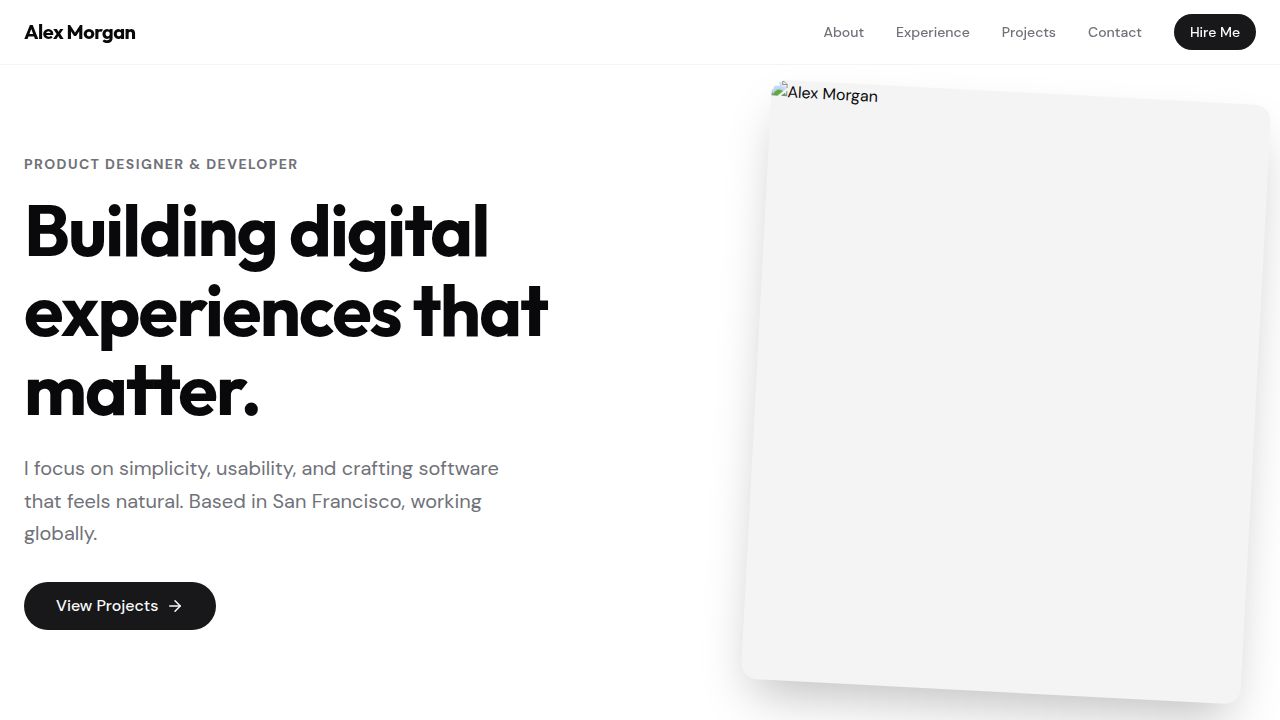
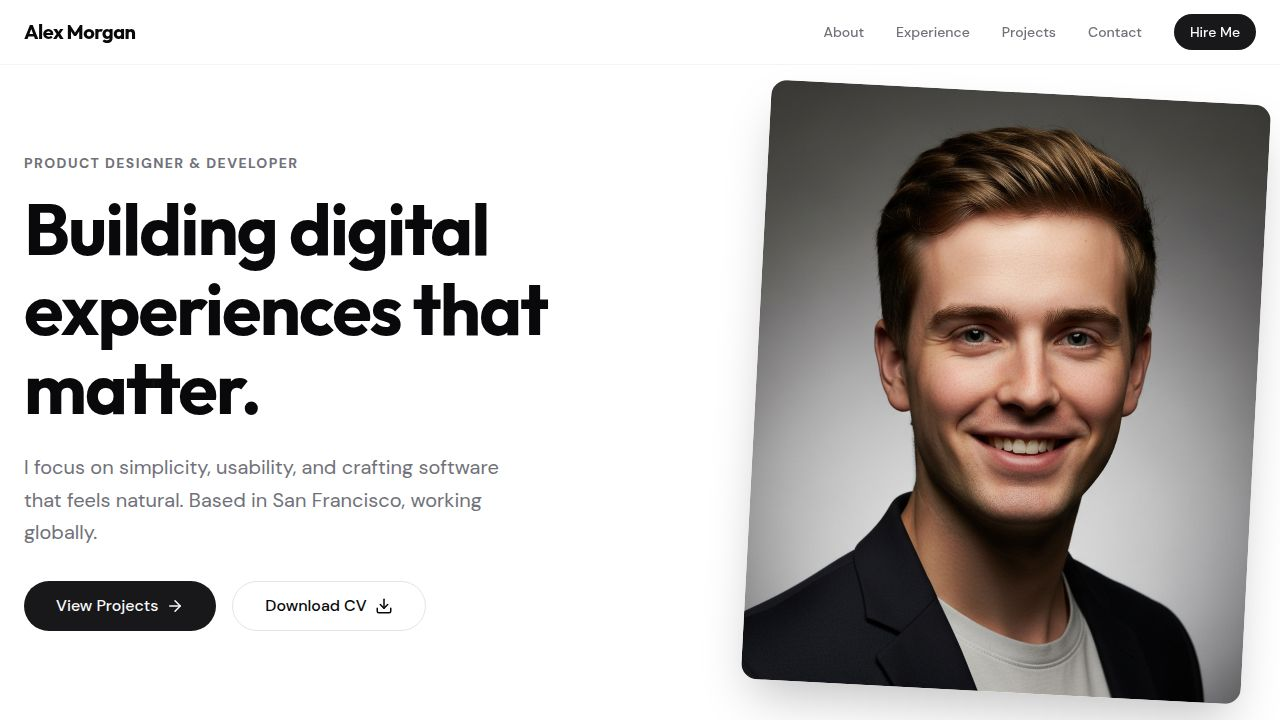
Consolidate site content and integrate dynamic data fetching
Update configuration to use a single data JSON file for site content, and refactor components to fetch this data dynamically using a new ContentProvider hook, replacing static imports.

Replit-Commit-Author: Agent
Replit-Commit-Session-Id: 2330eee7-d9eb-4136-a2d1-48d7d8accdbf
Replit-Commit-Checkpoint-Type: full_checkpoint
Replit-Commit-Event-Id: a3fcdbab-2cd2-4ba7-b0aa-76a99faa1c19
Replit-Commit-Screenshot-Url: https://storage.googleapis.com/screenshot-production-us-central1/29c4b8df-4326-462a-a762-90c2c4a7f456/2330eee7-d9eb-4136-a2d1-48d7d8accdbf/PbdmDis
Replit-Helium-Checkpoint-Created: true

diff --git a/client/src/data/content.tsx b/client/src/data/content.tsx
@@ -1,3 +1,8 @@
+import avatarImage from "@assets/generated_images/alex_morgan_professional_headshot.png";
+import fintechImage from "@assets/generated_images/fintech_dashboard_interface.png";
+import ecommerceImage from "@assets/generated_images/fashion_mobile_app_interface.png";
+import archImage from "@assets/generated_images/architecture_portfolio_website.png";
+import healthImage from "@assets/generated_images/wellness_tracker_app_interface.png";
 import { ContentData } from "@/types/content";
 
 export const content: ContentData = {
@@ -6,7 +11,7 @@ export const content: ContentData = {
     role: "Product Designer & Developer",
     headline: "Building digital experiences that matter.",
     description: "I focus on simplicity, usability, and crafting software that feels natural. Based in San Francisco, working globally.",
-    avatar: "/assets/alex_morgan_professional_headshot.png",
+    avatar: avatarImage,
     resume: "/assets/resume-placeholder.pdf", // Placeholder path
     primaryAction: "View Projects",
     secondaryAction: "Contact Me"
@@ -69,7 +74,7 @@ export const content: ContentData = {
       slug: "fintech-dashboard",
       category: "UI/UX Design",
       description: "A comprehensive financial management dashboard for enterprise users focused on data visualization and accessibility.",
-      image: "/assets/fintech_dashboard_interface.png",
+      image: fintechImage,
       link: "#",
       github: "https://github.com",
       tags: ["React", "D3.js", "TypeScript"],
@@ -96,7 +101,7 @@ We adopted a modular widget-based architecture that allows users to customize th
       slug: "ecommerce-mobile-app",
       category: "Mobile Development",
       description: "A flutter-based mobile application for a sustainable fashion brand, featuring AR product try-on.",
-      image: "/assets/fashion_mobile_app_interface.png",
+      image: ecommerceImage,
       link: "#",
       tags: ["Flutter", "Dart", "Firebase"],
       content: `
@@ -118,7 +123,7 @@ After launch, the brand saw a **40% increase** in mobile conversions and a **25%
       slug: "architecture-portfolio",
       category: "Web Design",
       description: "Minimalist portfolio website designed for an award-winning architect, emphasizing visual storytelling.",
-      image: "/assets/architecture_portfolio_website.png",
+      image: archImage,
       link: "#",
       tags: ["Next.js", "Tailwind", "Framer Motion"],
       content: `
@@ -135,7 +140,7 @@ Subtle micro-interactions and smooth page transitions (using Framer Motion) give
       slug: "health-tracker",
       category: "Product Design",
       description: "Concept design for a wellness tracking application focused on mental health and habit formation.",
-      image: "/assets/wellness_tracker_app_interface.png",
+      image: healthImage,
       link: "#",
       tags: ["Figma", "Prototyping", "User Research"],
       content: `

diff --git a/client/src/components/sections/Experience.tsx b/client/src/components/sections/Experience.tsx
@@ -1,8 +1,10 @@
-import { content } from "@/data/content";
+import { useContent } from "@/lib/useContent";
 import { motion } from "framer-motion";
 import { GraduationCap, Heart } from "lucide-react";
 
 export function Experience() {
+  const { experience, education, volunteering } = useContent();
+
   return (
     <section id="experience" className="py-24 bg-secondary/30">
       <div className="container mx-auto px-6">
@@ -11,7 +13,7 @@ export function Experience() {
         <div className="mb-20">
           <h2 className="text-3xl md:text-4xl font-heading font-bold mb-12">Experience</h2>
           <div className="max-w-3xl">
-            {content.experience.map((item, index) => (
+            {experience.map((item, index) => (
               <motion.div 
                 key={index}
                 initial={{ opacity: 0, x: -20 }}
@@ -43,14 +45,14 @@ export function Experience() {
         <div className="grid md:grid-cols-2 gap-16 max-w-5xl">
           
           {/* Education */}
-          {content.education && content.education.length > 0 && (
+          {education && education.length > 0 && (
             <div>
               <div className="flex items-center gap-3 mb-8">
                 <GraduationCap className="text-primary" size={24} />
                 <h3 className="text-2xl font-heading font-bold">Education</h3>
               </div>
               <div className="space-y-8">
-                {content.education.map((item, index) => (
+                {education.map((item, index) => (
                   <motion.div 
                     key={index}
                     initial={{ opacity: 0, y: 20 }}
@@ -72,14 +74,14 @@ export function Experience() {
           )}
 
           {/* Volunteering */}
-          {content.volunteering && content.volunteering.length > 0 && (
+          {volunteering && volunteering.length > 0 && (
             <div>
               <div className="flex items-center gap-3 mb-8">
                  <Heart className="text-primary" size={24} />
                  <h3 className="text-2xl font-heading font-bold">Volunteering</h3>
               </div>
               <div className="space-y-8">
-                {content.volunteering.map((item, index) => (
+                {volunteering.map((item, index) => (
                   <motion.div 
                     key={index}
                     initial={{ opacity: 0, y: 20 }}

diff --git a/client/src/components/sections/Hero.tsx b/client/src/components/sections/Hero.tsx
@@ -1,8 +1,10 @@
-import { content } from "@/data/content";
+import { useContent } from "@/lib/useContent";
 import { ArrowRight, Download } from "lucide-react";
 import { motion } from "framer-motion";
 
 export function Hero() {
+  const { hero } = useContent();
+
   return (
     <section className="min-h-screen flex items-center pt-16 relative overflow-hidden">
       {/* Background decoration */}
@@ -16,25 +18,25 @@ export function Hero() {
           className="order-2 md:order-1"
         >
           <span className="text-sm font-bold tracking-widest text-muted-foreground uppercase mb-4 block">
-            {content.hero.role}
+            {hero.role}
           </span>
           <h1 className="text-5xl md:text-7xl font-heading font-bold leading-[1.1] mb-6 tracking-tight text-foreground">
-            {content.hero.headline}
+            {hero.headline}
           </h1>
           <p className="text-xl text-muted-foreground mb-8 max-w-lg leading-relaxed">
-            {content.hero.description}
+            {hero.description}
           </p>
           <div className="flex flex-wrap gap-4">
             <a 
               href="#projects"
               className="inline-flex items-center gap-2 bg-primary text-primary-foreground px-8 py-3 rounded-full font-medium hover:opacity-90 transition-all hover:gap-3"
             >
-              {content.hero.primaryAction}
+              {hero.primaryAction}
               <ArrowRight size={18} />
             </a>
-            {content.hero.resume && (
+            {hero.resume && (
                <a 
-                href={content.hero.resume}
+                href={hero.resume}
                 className="inline-flex items-center gap-2 px-8 py-3 rounded-full font-medium border border-border hover:bg-secondary transition-colors"
                 download
               >
@@ -53,8 +55,8 @@ export function Hero() {
         >
           <div className="relative w-72 h-72 md:w-[500px] md:h-[600px] bg-secondary rounded-2xl overflow-hidden shadow-2xl rotate-3 hover:rotate-0 transition-transform duration-500">
             <img 
-              src={content.hero.avatar} 
-              alt={content.hero.name} 
+              src={hero.avatar} 
+              alt={hero.name} 
               className="w-full h-full object-cover"
             />
           </div>

diff --git a/client/src/components/sections/About.tsx b/client/src/components/sections/About.tsx
@@ -1,8 +1,10 @@
-import { content } from "@/data/content";
+import { useContent } from "@/lib/useContent";
 import { motion } from "framer-motion";
 import { Quote } from "lucide-react";
 
 export function About() {
+  const { about, references } = useContent();
+
   return (
     <section id="about" className="py-24 bg-secondary/30">
       <div className="container mx-auto px-6">
@@ -14,16 +16,16 @@ export function About() {
           className="max-w-4xl mx-auto mb-16"
         >
           <h2 className="text-3xl md:text-4xl font-heading font-bold mb-8">
-            {content.about.title}
+            {about.title}
           </h2>
           <div className="grid md:grid-cols-2 gap-12">
             <div>
               <p className="text-lg text-muted-foreground leading-relaxed">
-                {content.about.bio}
+                {about.bio}
               </p>
             </div>
             <div className="grid grid-cols-2 gap-6">
-              {content.about.stats.map((stat) => (
+              {about.stats.map((stat) => (
                 <div key={stat.label} className="bg-background p-6 rounded-lg border border-border shadow-sm">
                   <div className="text-3xl font-bold font-heading mb-1 text-primary">
                     {stat.value}
@@ -38,7 +40,7 @@ export function About() {
         </motion.div>
 
         {/* References Section */}
-        {content.references && content.references.length > 0 && (
+        {references && references.length > 0 && (
           <motion.div
             initial={{ opacity: 0, y: 20 }}
             whileInView={{ opacity: 1, y: 0 }}
@@ -47,7 +49,7 @@ export function About() {
           >
              <h3 className="text-2xl font-heading font-bold mb-8 text-center">What People Say</h3>
              <div className="grid md:grid-cols-2 gap-8">
-               {content.references.map((ref, i) => (
+               {references.map((ref, i) => (
                  <div key={i} className="bg-background p-8 rounded-xl border border-border shadow-sm relative">
                    <Quote className="text-primary/10 absolute top-6 right-6 w-12 h-12" />
                    <p className="text-muted-foreground italic mb-6 relative z-10">"{ref.quote}"</p>

diff --git a/client/src/components/sections/Contact.tsx b/client/src/components/sections/Contact.tsx
@@ -1,10 +1,12 @@
-import { content } from "@/data/content";
+import { useContent } from "@/lib/useContent";
 import { Button } from "@/components/ui/button";
 import { Input } from "@/components/ui/input";
 import { Textarea } from "@/components/ui/textarea";
 import { motion } from "framer-motion";
 
 export function Contact() {
+  const { contact } = useContent();
+
   return (
     <section id="contact" className="py-24">
       <div className="container mx-auto px-6">
@@ -27,8 +29,8 @@ export function Contact() {
                 </div>
                 <div>
                   <div className="text-sm text-muted-foreground">Email me at</div>
-                  <a href={`mailto:${content.contact.email}`} className="text-lg font-medium hover:text-primary transition-colors">
-                    {content.contact.email}
+                  <a href={`mailto:${contact.email}`} className="text-lg font-medium hover:text-primary transition-colors">
+                    {contact.email}
                   </a>
                 </div>
               </div>
@@ -37,7 +39,7 @@ export function Contact() {
             <div className="mt-12">
               <h3 className="text-sm font-bold uppercase tracking-widest text-muted-foreground mb-4">Follow Me</h3>
               <div className="flex gap-4">
-                {content.contact.socials.map((social) => (
+                {contact.socials.map((social) => (
                   <a 
                     key={social.name}
                     href={social.link}

diff --git a/client/src/lib/useContent.tsx b/client/src/lib/useContent.tsx
@@ -1,0 +1,36 @@
+import { createContext, useContext, useEffect, useState, ReactNode } from "react";
+import { ContentData } from "@/types/content";
+// Import default content as fallback
+import { content as defaultContent } from "@/data/content";
+
+const ContentContext = createContext<ContentData>(defaultContent);
+
+export function ContentProvider({ children }: { children: ReactNode }) {
+  const [content, setContent] = useState<ContentData>(defaultContent);
+
+  useEffect(() => {
+    // Fetch the live data.json file that the CMS writes to
+    fetch("/content/data.json")
+      .then((res) => {
+        if (!res.ok) throw new Error("Failed to load content");
+        return res.json();
+      })
+      .then((data) => {
+        // Merge with default content to ensure all fields exist
+        setContent({ ...defaultContent, ...data });
+      })
+      .catch((err) => {
+        console.warn("Could not load live content, using default:", err);
+      });
+  }, []);
+
+  return (
+    <ContentContext.Provider value={content}>
+      {children}
+    </ContentContext.Provider>
+  );
+}
+
+export function useContent() {
+  return useContext(ContentContext);
+}

diff --git a/client/src/pages/ProjectPage.tsx b/client/src/pages/ProjectPage.tsx
@@ -1,8 +1,8 @@
-import { content } from "@/data/content";
+import { useContent } from "@/lib/useContent";
 import { useRoute, Link } from "wouter";
 import { Navbar } from "@/components/layout/Navbar";
 import { Footer } from "@/components/layout/Footer";
-import { ArrowLeft, ExternalLink, Github, Calendar, Tag } from "lucide-react";
+import { ArrowLeft, ExternalLink, Github, Tag } from "lucide-react";
 import ReactMarkdown from "react-markdown";
 import { motion } from "framer-motion";
 import NotFound from "./not-found";
@@ -10,8 +10,9 @@ import NotFound from "./not-found";
 export default function ProjectPage() {
   const [, params] = useRoute("/project/:slug");
   const slug = params?.slug;
+  const { projects } = useContent();
 
-  const project = content.projects.find((p) => p.slug === slug);
+  const project = projects.find((p) => p.slug === slug);
 
   if (!project) {
     return <NotFound />;

diff --git a/client/src/components/sections/Projects.tsx b/client/src/components/sections/Projects.tsx
@@ -1,10 +1,11 @@
-import { content } from "@/data/content";
+import { useContent } from "@/lib/useContent";
 import { motion } from "framer-motion";
-import { ExternalLink, Github, Video } from "lucide-react";
-import { Badge } from "@/components/ui/badge";
+import { ExternalLink, Github } from "lucide-react";
 import { Link } from "wouter";
 
 export function Projects() {
+  const { projects } = useContent();
+
   return (
     <section id="projects" className="py-24">
       <div className="container mx-auto px-6">
@@ -16,7 +17,7 @@ export function Projects() {
         </div>
 
         <div className="grid md:grid-cols-2 gap-8">
-          {content.projects.map((project, index) => (
+          {projects.map((project, index) => (
             <Link key={project.id} href={`/project/${project.slug}`}>
               <motion.div
                 initial={{ opacity: 0, y: 20 }}

diff --git a/client/src/components/layout/Footer.tsx b/client/src/components/layout/Footer.tsx
@@ -1,11 +1,13 @@
-import { content } from "@/data/content";
+import { useContent } from "@/lib/useContent";
 
 export function Footer() {
+  const { hero } = useContent();
+  
   return (
     <footer className="py-8 border-t border-border">
       <div className="container mx-auto px-6 flex flex-col md:flex-row justify-between items-center gap-4">
         <div className="text-sm text-muted-foreground">
-          © {new Date().getFullYear()} {content.hero.name}. All rights reserved.
+          © {new Date().getFullYear()} {hero.name}. All rights reserved.
         </div>
         <div className="flex gap-6">
           <a href="#" className="text-sm text-muted-foreground hover:text-foreground transition-colors">

diff --git a/client/src/App.tsx b/client/src/App.tsx
@@ -2,6 +2,7 @@ import { Switch, Route } from "wouter";
 import { queryClient } from "./lib/queryClient";
 import { QueryClientProvider } from "@tanstack/react-query";
 import { Toaster } from "@/components/ui/toaster";
+import { ContentProvider } from "@/lib/useContent";
 import Home from "@/pages/Home";
 import ProjectPage from "@/pages/ProjectPage";
 import NotFound from "@/pages/not-found";
@@ -19,8 +20,10 @@ function Router() {
 function App() {
   return (
     <QueryClientProvider client={queryClient}>
-      <Toaster />
-      <Router />
+      <ContentProvider>
+        <Toaster />
+        <Router />
+      </ContentProvider>
     </QueryClientProvider>
   );
 }
